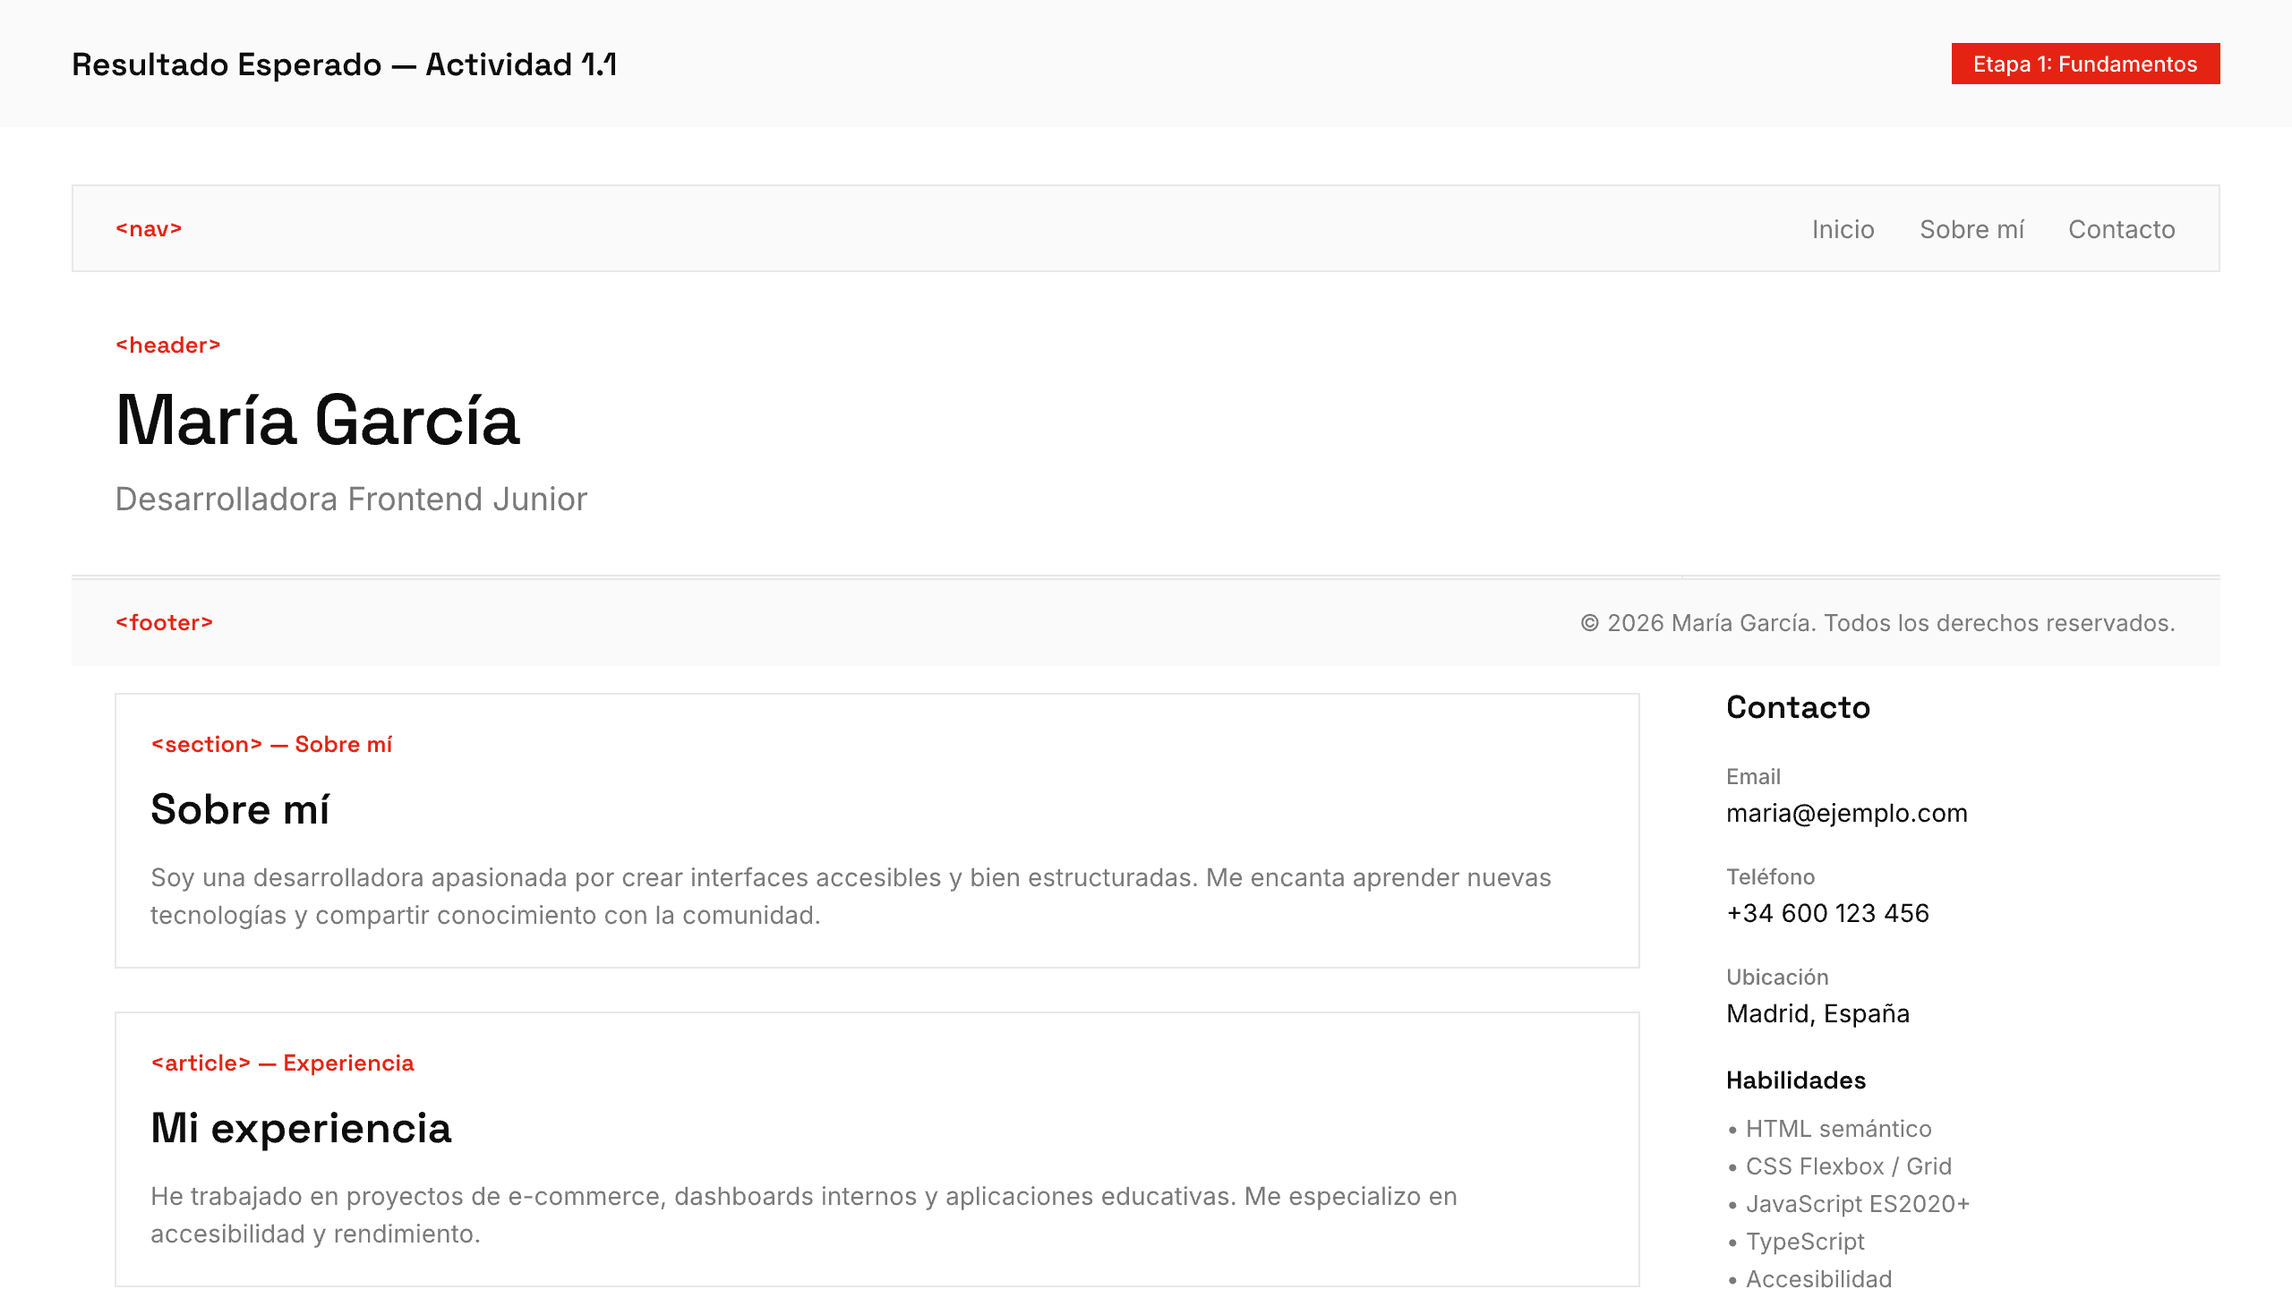
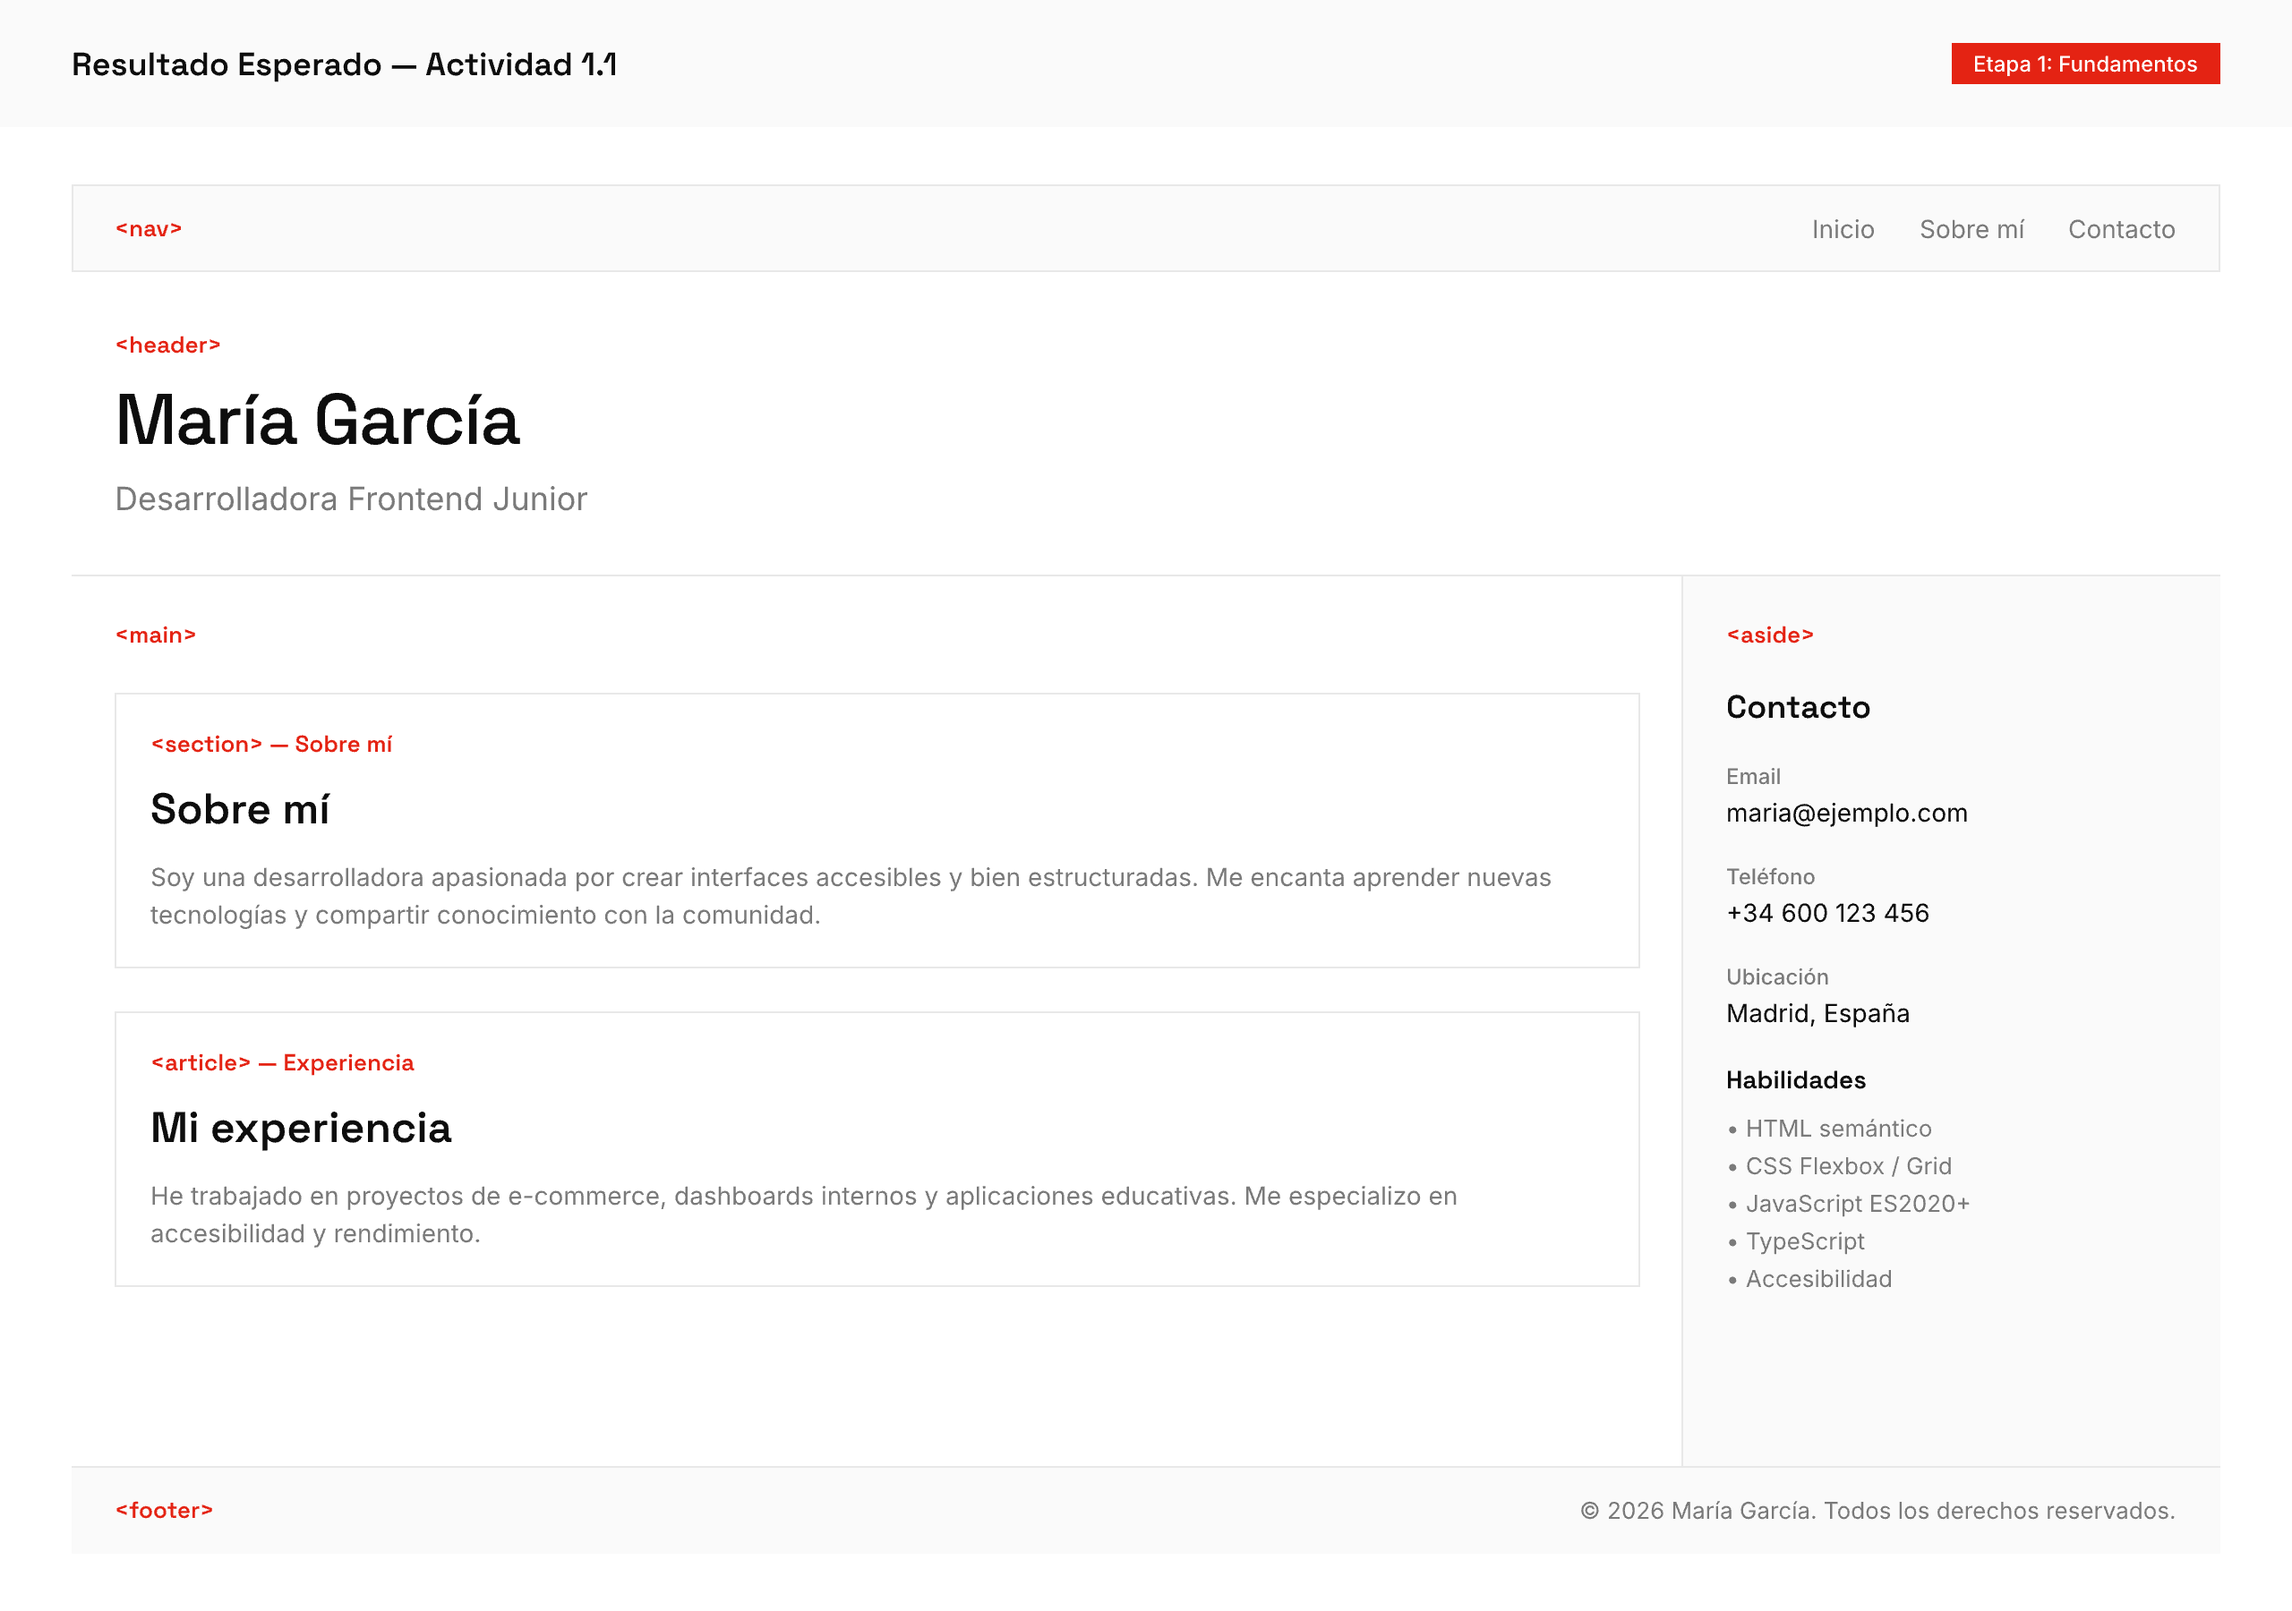
Corregir mockups: nombres, layout en canvas, referencias rotas
- Renombrar mockups para coincidir con README:
  1.2-formulario-nativo.png → 1.2-formulario-contacto.png
  1.4-dashboard-grid.png → 1.4-css-grid-dashboard.png
- Re-exportar los 3 mockups con frames corregidos en canvas
  (antes estaban apilados en x:0,y:0, ahora separados)
- Eliminar 11 referencias a mockups inexistentes del README
  (actividades de código como JS, TS, closures no necesitan mockup visual)
- Quedan solo 3 referencias válidas: 1.1, 1.2, 1.4
- Actualizar frontend-guide.pen con posiciones correctas

diff --git a/guide/stage-1-foundations/README.md b/guide/stage-1-foundations/README.md
@@ -131,7 +131,6 @@ Las extensiones agregan funcionalidad a VS Code. Instala estas tres:
 
 Al terminar esta actividad, tu computadora tiene todo listo para programar: VS Code con extensiones instaladas, Node.js funcionando en la terminal, y un linter que detecta errores en tu código. Todas las actividades siguientes asumen que esto ya está configurado.
 
-![Resultado esperado](./mockups/1.0-entorno-desarrollo.png)
 
 **Criterios de aceptación:**
 - [ ] El linter marca `var`, variables no usadas y `console.log`
@@ -584,7 +583,6 @@ En `styles.css`:
 
 Tu página de perfil ahora tiene estilos: una barra de navegación horizontal oscura con links en blanco, tarjetas de skills alineadas en fila (que pasan a la siguiente línea en pantallas angostas), y una sección hero centrada vertical y horizontalmente.
 
-![Resultado esperado](./mockups/1.3-box-model-flexbox.png)
 
 **Criterios de aceptación:**
 - [ ] Reset universal `box-sizing: border-box` aplicado
@@ -925,7 +923,6 @@ main();
 
 Una página que carga datos de una API pública y los muestra: nombre y email de un usuario, y una lista de títulos de sus posts. En la Console de DevTools se ven los mensajes de log con los datos procesados.
 
-![Resultado esperado](./mockups/1.5-javascript-moderno.png)
 
 **Criterios de aceptación:**
 - [ ] Todos los módulos usan `import`/`export`
@@ -1152,7 +1149,6 @@ main();
 
 Al ejecutar `npx tsc --noEmit`, no hay errores. Al compilar con `npx tsc` y ejecutar con `node dist/main.js`, la terminal muestra una lista de usuarios transformados (solo con id, displayName, email, city, companyName) y los usuarios filtrados por ciudad.
 
-![Resultado esperado](./mockups/1.6-typescript-transformador.png)
 
 **Criterios de aceptación:**
 - [ ] Compila con `strict: true` sin errores
@@ -1259,7 +1255,6 @@ Para cada corrección, modifica el HTML o CSS según corresponda:
 
 Tu auditoría documenta todos los problemas de accesibilidad encontrados. Los 3 problemas más críticos están corregidos. Al navegar con teclado, puedes alcanzar y activar todos los elementos interactivos, el foco es visible en cada paso, y Lighthouse Accessibility marca > 90.
 
-![Resultado esperado](./mockups/1.7-accesibilidad-teclado.png)
 
 **Criterios de aceptación:**
 - [ ] Todo elemento interactivo alcanzable con Tab y activable con Enter/Space
@@ -1407,7 +1402,6 @@ function renderTodos() {
 
 Una aplicación de lista de tareas funcional: puedes agregar, marcar como completada y eliminar tareas. El contador se actualiza en tiempo real. Todo funciona sin recargar la página.
 
-![Resultado esperado](./mockups/1.8-interactividad-dom.png)
 
 **Criterios de aceptación:**
 - [ ] Los elementos se seleccionan correctamente del DOM
@@ -1513,7 +1507,6 @@ console.log(counter.getCount()); // 11
 
 La terminal muestra los arrays transformados correctamente y el closure mantiene estado entre llamadas sin exponer la variable interna.
 
-![Resultado esperado](./mockups/1.9-arrays-closures.png)
 
 **Criterios de aceptación:**
 - [ ] Se usan al menos 3 métodos funcionales de array
@@ -1600,7 +1593,6 @@ Usa Device Toolbar en DevTools para probar 320px, 768px y 1280px.
 
 Un dashboard completo que replica el mockup proporcionado, con layout responsivo que funciona en móvil, tablet y desktop. La tipografía es fluida y no hay valores `px` para espaciado.
 
-![Resultado esperado](./mockups/1.10-mockup-dashboard.png)
 
 **Criterios de aceptación:**
 - [ ] El layout reproduce el mockup proporcionado
@@ -1721,7 +1713,6 @@ Compara tus predicciones con los resultados reales.
 
 Las 3 predicciones de orden de ejecución son correctas. El caché con `Map` funciona correctamente con evicción cuando se excede el tamaño máximo. El `WeakMap` asocia datos a objetos sin impedir garbage collection.
 
-![Resultado esperado](./mockups/1.11-event-loop-map-set.png)
 
 **Criterios de aceptación:**
 - [ ] Las 3 predicciones de orden de ejecución son correctas
@@ -1803,7 +1794,6 @@ Documenta en un comentario en tu CSS las propiedades que crean stacking context:
 
 Una demo visual que demuestra claramente que un `z-index` alto puede quedar atrapado dentro de un stacking context padre con un `z-index` bajo. El estudiante identifica al menos 5 propiedades CSS que crean stacking contexts.
 
-![Resultado esperado](./mockups/1.12-stacking-context.png)
 
 **Criterios de aceptación:**
 - [ ] Se demuestra que un `z-index` alto falla dentro de un contexto padre
@@ -1920,7 +1910,6 @@ Los 6 comandos de arriba deben pasar sin errores.
 
 Todos los comandos de validación pasan sin errores. Esto confirma que dominas los fundamentos: HTML semántico, CSS con box model y layouts, JavaScript moderno con módulos y async, TypeScript con tipos strict, y accesibilidad básica.
 
-![Resultado esperado](./mockups/1.13-validacion-integral.png)
 
 **Criterios de aceptación:**
 - [ ] `html-validate` pasa sin errores
